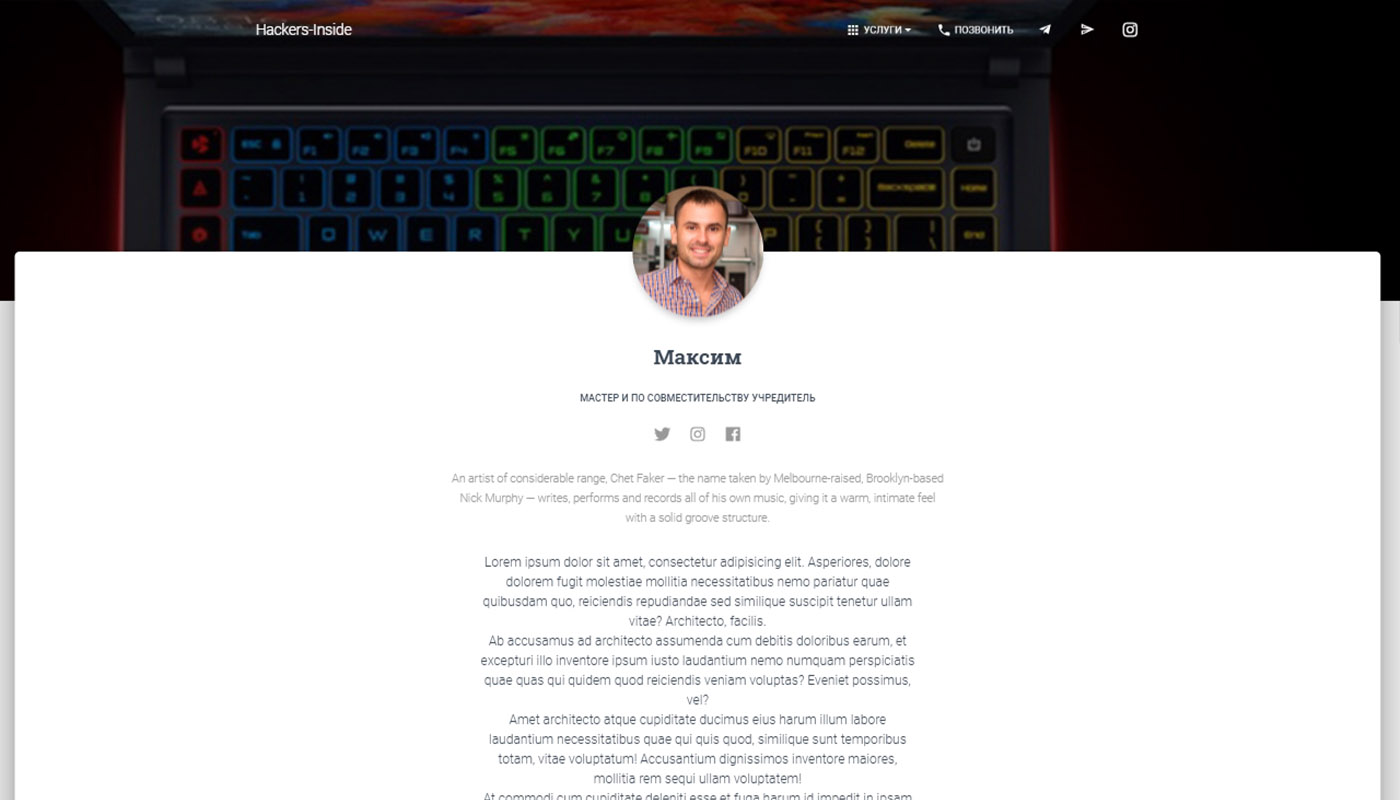
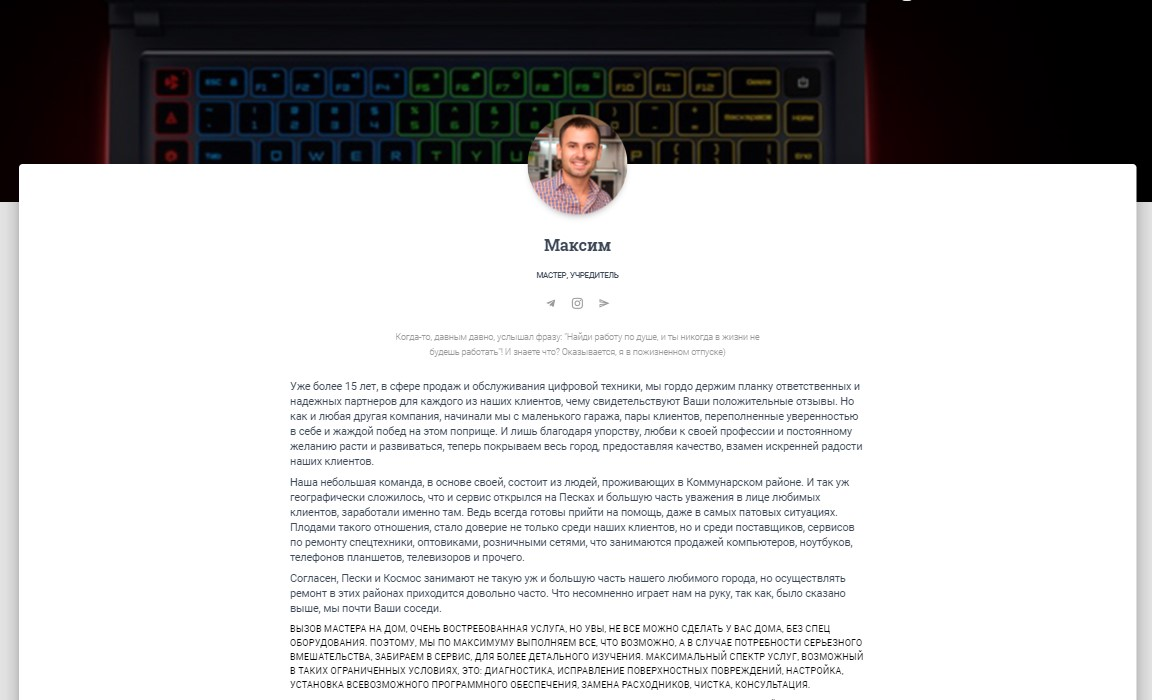
done

Changed region(s): [[0.0, 0.0, 1.0, 1.0]]

diff --git a/public/index.html b/public/index.html
@@ -6,7 +6,7 @@
     <meta name="theme-color" content="#000000" />
     <meta
             name="description"
-            content="Hacker-Inside: компания по ремонту и продаже компьютерной техники. Замена матрицы экрана.
+            content="Hackers-Inside: компания по ремонту и продаже компьютерной техники. Замена матрицы экрана.
       Замена клавиатуры (или чистка, отмывка залитой вашей). Замена аккумулятора (оригинал или лицензия).
       Замена винчестера HDD, привода DVD. Замена оперативной памяти. Замена шлейфов (матрицы, клавиатуры).
       Прошивка BIOS. Сброс забытого пароля BIOS. Чистка системы охлаждения ноутбука и замена термоинтерфейсов.
@@ -18,7 +18,6 @@
 
     <link href="https://fonts.googleapis.com/css?family=Montserrat:400,700,200" rel="stylesheet" />
     <link href="https://maxcdn.bootstrapcdn.com/font-awesome/latest/css/font-awesome.min.css" rel="stylesheet" />
-    <link rel="apple-touch-icon" sizes="76x76" href="%PUBLIC_URL%/apple-icon.png" />
     <!--     Fonts and icons     -->
     <link rel="stylesheet" type="text/css"
           href="https://fonts.googleapis.com/css?family=Roboto:300,400,500,700|Roboto+Slab:400,700|Material+Icons" />

diff --git a/src/pages/ProfilePages/MaxPage.jsx b/src/pages/ProfilePages/MaxPage.jsx
@@ -50,7 +50,7 @@ export default function MaxProfile(props) {
                                     </div>
                                     <div className={classes.name}>
                                         <h3 className={classes.title}>Максим</h3>
-                                        <h6>Мастер, учредитель, клевый парень и просто отлично сосет)))</h6>
+                                        <h6>Мастер, учредитель</h6>
 
                                         <Tooltip id="instagram-twitter" title="Написать в Telegram">
                                         <Button justIcon link href="https://t.me/Hacersinside" target="_blank" className={classes.margin5}>

diff --git a/src/pages/ProfilePages/YuraPage.jsx b/src/pages/ProfilePages/YuraPage.jsx
@@ -46,7 +46,7 @@ export default function YuraProfile(props) {
                                             </div>
                                             <div className={classes.name}>
                                                 <h3 className={classes.title}>Юра</h3>
-                                                <h6>Мастер, учредитель, клевый парень</h6>
+                                                <h6>Мастер</h6>
 
                                                 <Tooltip id="instagram-twitter" title="Написать в Telegram">
                                                     <Button justIcon link href="https://t.me/Hacersinside" target="_blank" className={classes.margin5}>
